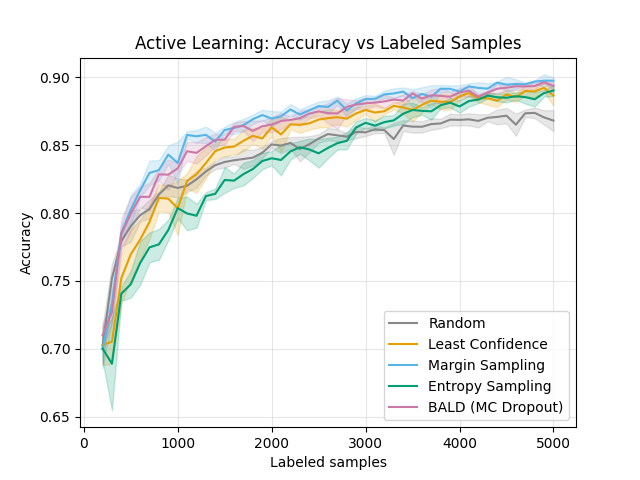
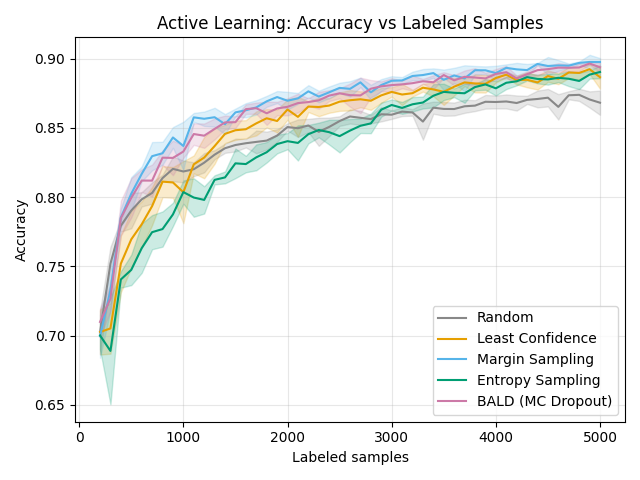
Aggregaed results: accuracy, LE and per-seed AULC

diff --git a/plot_results.py b/plot_results.py
@@ -4,69 +4,106 @@ import matplotlib
 matplotlib.use('Agg')
 import matplotlib.pyplot as plt
 import numpy as np
-from config import PLOT_COLORS, STRATEGY_LABELS
+from config import PLOT_COLORS, STRATEGY_LABELS, CONFIG
 
-#Strategies to compare
 strategies = ["random", "least_confidence", "margin", "entropy", "bald"]
+thresholds = CONFIG["label_efficiency_thresholds"]
+budget = CONFIG["budget"]
 
-#Group result files by strategy
-files_by_strategy = {s: [] for s in strategies}
-
-for file in glob.glob("results/results_*.json"):
+# Group result files by strategy (one list of runs per strategy)
+runs_by_strategy = {s: [] for s in strategies}
+for file in sorted(glob.glob("results/results_*.json")):
     for strategy in strategies:
-        if strategy in file:
-            files_by_strategy[strategy].append(file)
+        if f"_{strategy}_" in file:
+            with open(file) as f:
+                runs_by_strategy[strategy].append(json.load(f))
             break
 
-averaged_by_strategy = {}
+stop_cells = {}
 
-#Load all runs for each strategy
+# Print AULC + Final Acc + LE header
+header = (
+    f"{'Strategy':<20} {'AULC (mean ± std)':<22} "
+    f"{'Final Acc (mean ± std)':<26} "
+    + "  ".join([f"LE@{int(t*100)}%".ljust(14) for t in thresholds])
+)
+print(header)
+print("-" * len(header))
+
 for strategy in strategies:
-    all_runs = []
-    for file in files_by_strategy[strategy]:
-        with open(file) as f:
-            data = json.load(f)
-            all_runs.append(data)
+    runs = runs_by_strategy[strategy]
+    if not runs:
+        continue
 
-#Average accuracy and std for every seed
-    if all_runs:
-        n_rounds = len(all_runs[0])
-        averaged = []
-        for i in range(n_rounds):
-            labeled_size = all_runs[0][i]["labeled_size"]
-            avg_accuracy = sum(run[i]["accuracy"] for run in all_runs) / len(all_runs)
-            std_accuracy = np.std([run[i]["accuracy"] for run in all_runs])
-            averaged.append({"labeled_size": labeled_size, "accuracy": avg_accuracy, "std": std_accuracy})
-        averaged_by_strategy[strategy] = averaged
+    # AULC per seed, then mean ± std across seeds
+    aulcs = []
+    for run in runs:
+        x = np.array([p["labeled_size"] for p in run])
+        y = np.array([p["accuracy"] for p in run])
+        aulcs.append(np.trapezoid(y, x))
+    aulc_mean = np.mean(aulcs)
+    aulc_std = np.std(aulcs, ddof=1) if len(aulcs) > 1 else 0.0
 
-for strategy in averaged_by_strategy:       
-    dataplot = averaged_by_strategy[strategy]
-    x = [point["labeled_size"]for point in dataplot]
-    y = [point["accuracy"] for point in dataplot]
-    std = [point["std"] for point in dataplot]
+    # Final accuracy per seed (last round), then mean ± std
+    final_accs = [r[-1]["accuracy"] for r in runs]
+    acc_mean = np.mean(final_accs)
+    acc_std = np.std(final_accs, ddof=1) if len(final_accs) > 1 else 0.0
 
-    #Calculate AUC with trapezoid rule in numpy
-    auc = np.trapezoid(y, x)
-    print (f"{strategy}: AUC = {auc:.2f}")
+    # Label Efficiency per seed per threshold
+    le_cells = []
+    for t in thresholds:
+        le_values = [
+            next((p["labeled_size"] for p in run if p["accuracy"] >= t), None)
+            for run in runs
+        ]
+        reached = [v for v in le_values if v is not None]
+        if len(reached) == 0:
+            le_cells.append("n.a.".ljust(14))
+        else:
+            mean = np.mean(reached)
+            std = np.std(reached, ddof=1) if len(reached) > 1 else 0.0
+            tag = "" if len(reached) == len(runs) else f" ({len(reached)}/{len(runs)})"
+            le_cells.append(f"{mean:.0f} ± {std:.0f}{tag}".ljust(14))
 
-    for threshold in [0.80, 0.85, 0.88, 0.90]:
-      for size, acc in zip(x, y):
-          if acc >= threshold:
-              print(f"{strategy} @ {threshold}: {size} samples")
-              break
-      else:
-        print(f"{strategy} @ {threshold}: never reached")
+    name = STRATEGY_LABELS[strategy]
+    aulc_cell = f"{aulc_mean:.2f} ± {aulc_std:.2f}"
+    acc_cell = f"{acc_mean:.4f} ± {acc_std:.4f}"
+    print(f"{name:<20} {aulc_cell:<22} {acc_cell:<26} " + "  ".join(le_cells))
 
-    plt.plot(x, y, label=STRATEGY_LABELS[strategy], color=PLOT_COLORS[strategy])
-    plt.fill_between(x,
-                 [a - s for a, s in zip(y,std)],
-                 [a + s for a, s in zip(y,std)],
-                 color = PLOT_COLORS[strategy],
-                 alpha = 0.2)
+    # Stopping point per seed (last labeled_size recorded)
+    stops = [r[-1]["labeled_size"] for r in runs]
+    early = [s for s in stops if s < budget]
+    if early:
+        m = np.mean(early)
+        s = np.std(early, ddof=1) if len(early) > 1 else 0.0
+        tag = "" if len(early) == len(stops) else f" ({len(early)}/{len(stops)})"
+        stop_cells[strategy] = f"{m:.0f} ± {s:.0f}{tag}"
+    else:
+        stop_cells[strategy] = f"no activado (llegan a {budget})"
+
+    # Plot: align all seeds to the shortest run
+    min_rounds = min(len(r) for r in runs)
+    x = np.array([runs[0][i]["labeled_size"] for i in range(min_rounds)])
+    accs = np.array([[r[i]["accuracy"] for i in range(min_rounds)] for r in runs])
+    y_mean = accs.mean(axis=0)
+    y_std = accs.std(axis=0, ddof=1) if len(runs) > 1 else np.zeros(min_rounds)
+
+    plt.plot(x, y_mean, label=STRATEGY_LABELS[strategy], color=PLOT_COLORS[strategy])
+    plt.fill_between(x, y_mean - y_std, y_mean + y_std,
+                     color=PLOT_COLORS[strategy], alpha=0.2)
+
+# Stopping-criterion table
+print()
+print(f"{'Strategy':<20} {'|L_t| al detenerse':<40}")
+print("-" * 60)
+for strategy in strategies:
+    if strategy in stop_cells:
+        print(f"{STRATEGY_LABELS[strategy]:<20} {stop_cells[strategy]}")
+
 plt.grid(True, alpha=0.3)
 plt.title("Active Learning: Accuracy vs Labeled Samples")
 plt.xlabel("Labeled samples")
 plt.ylabel("Accuracy")
 plt.legend()
+plt.tight_layout()
 plt.savefig("results.png")
-
